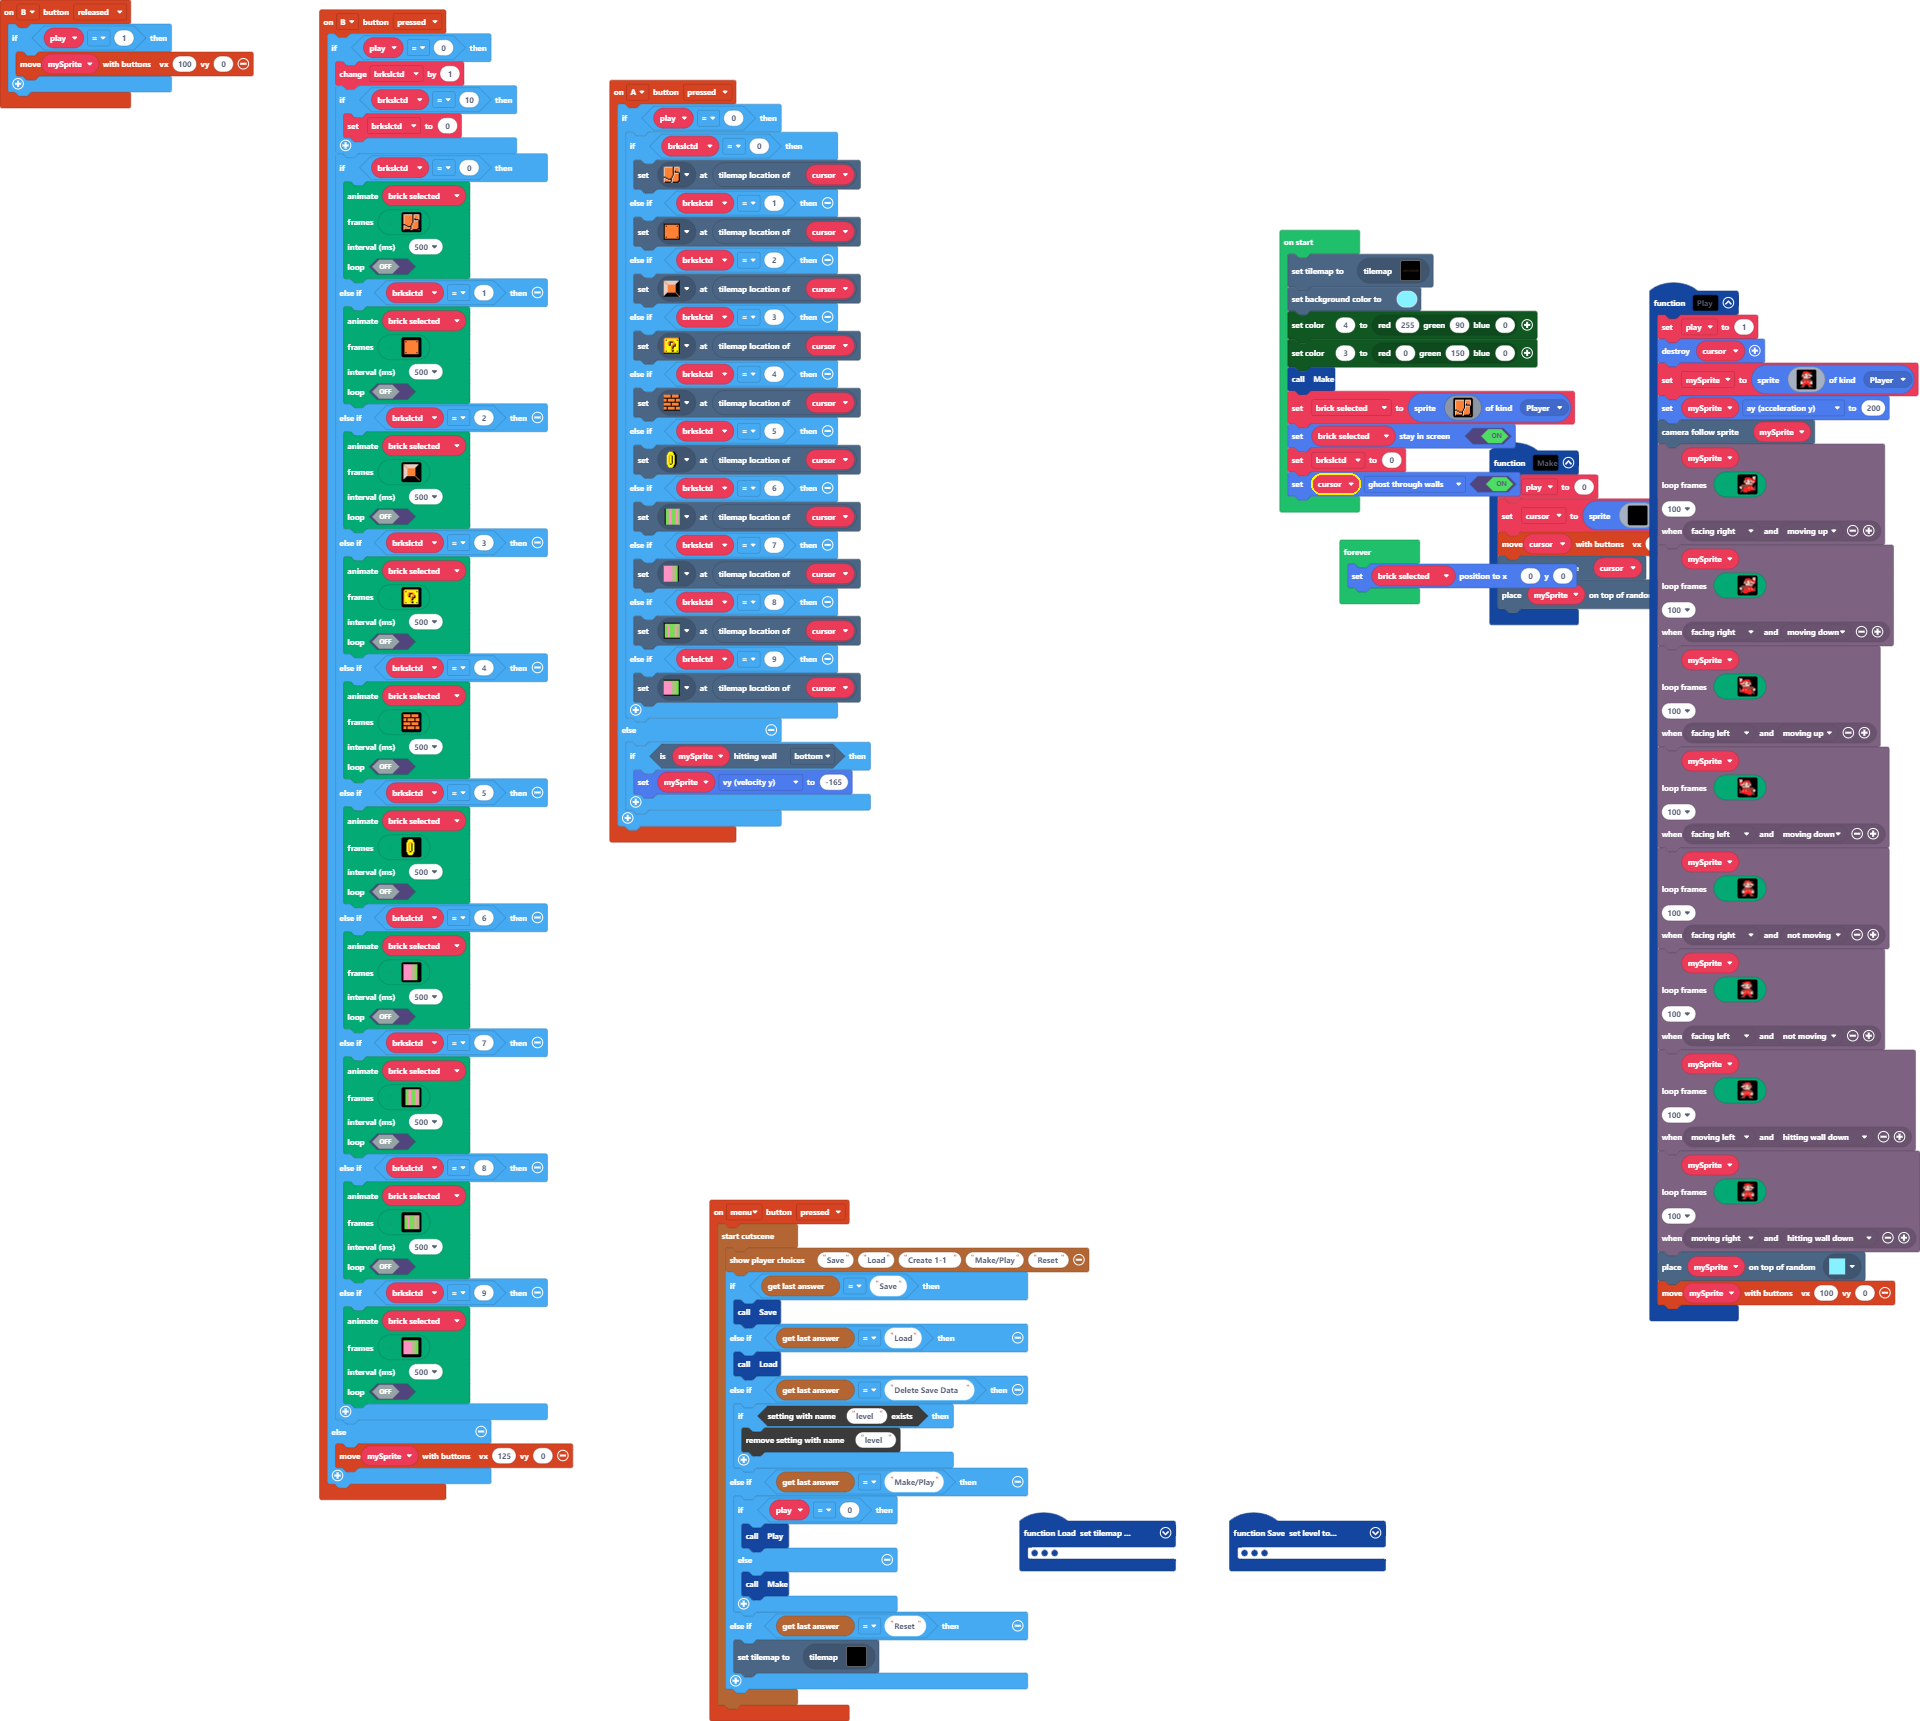
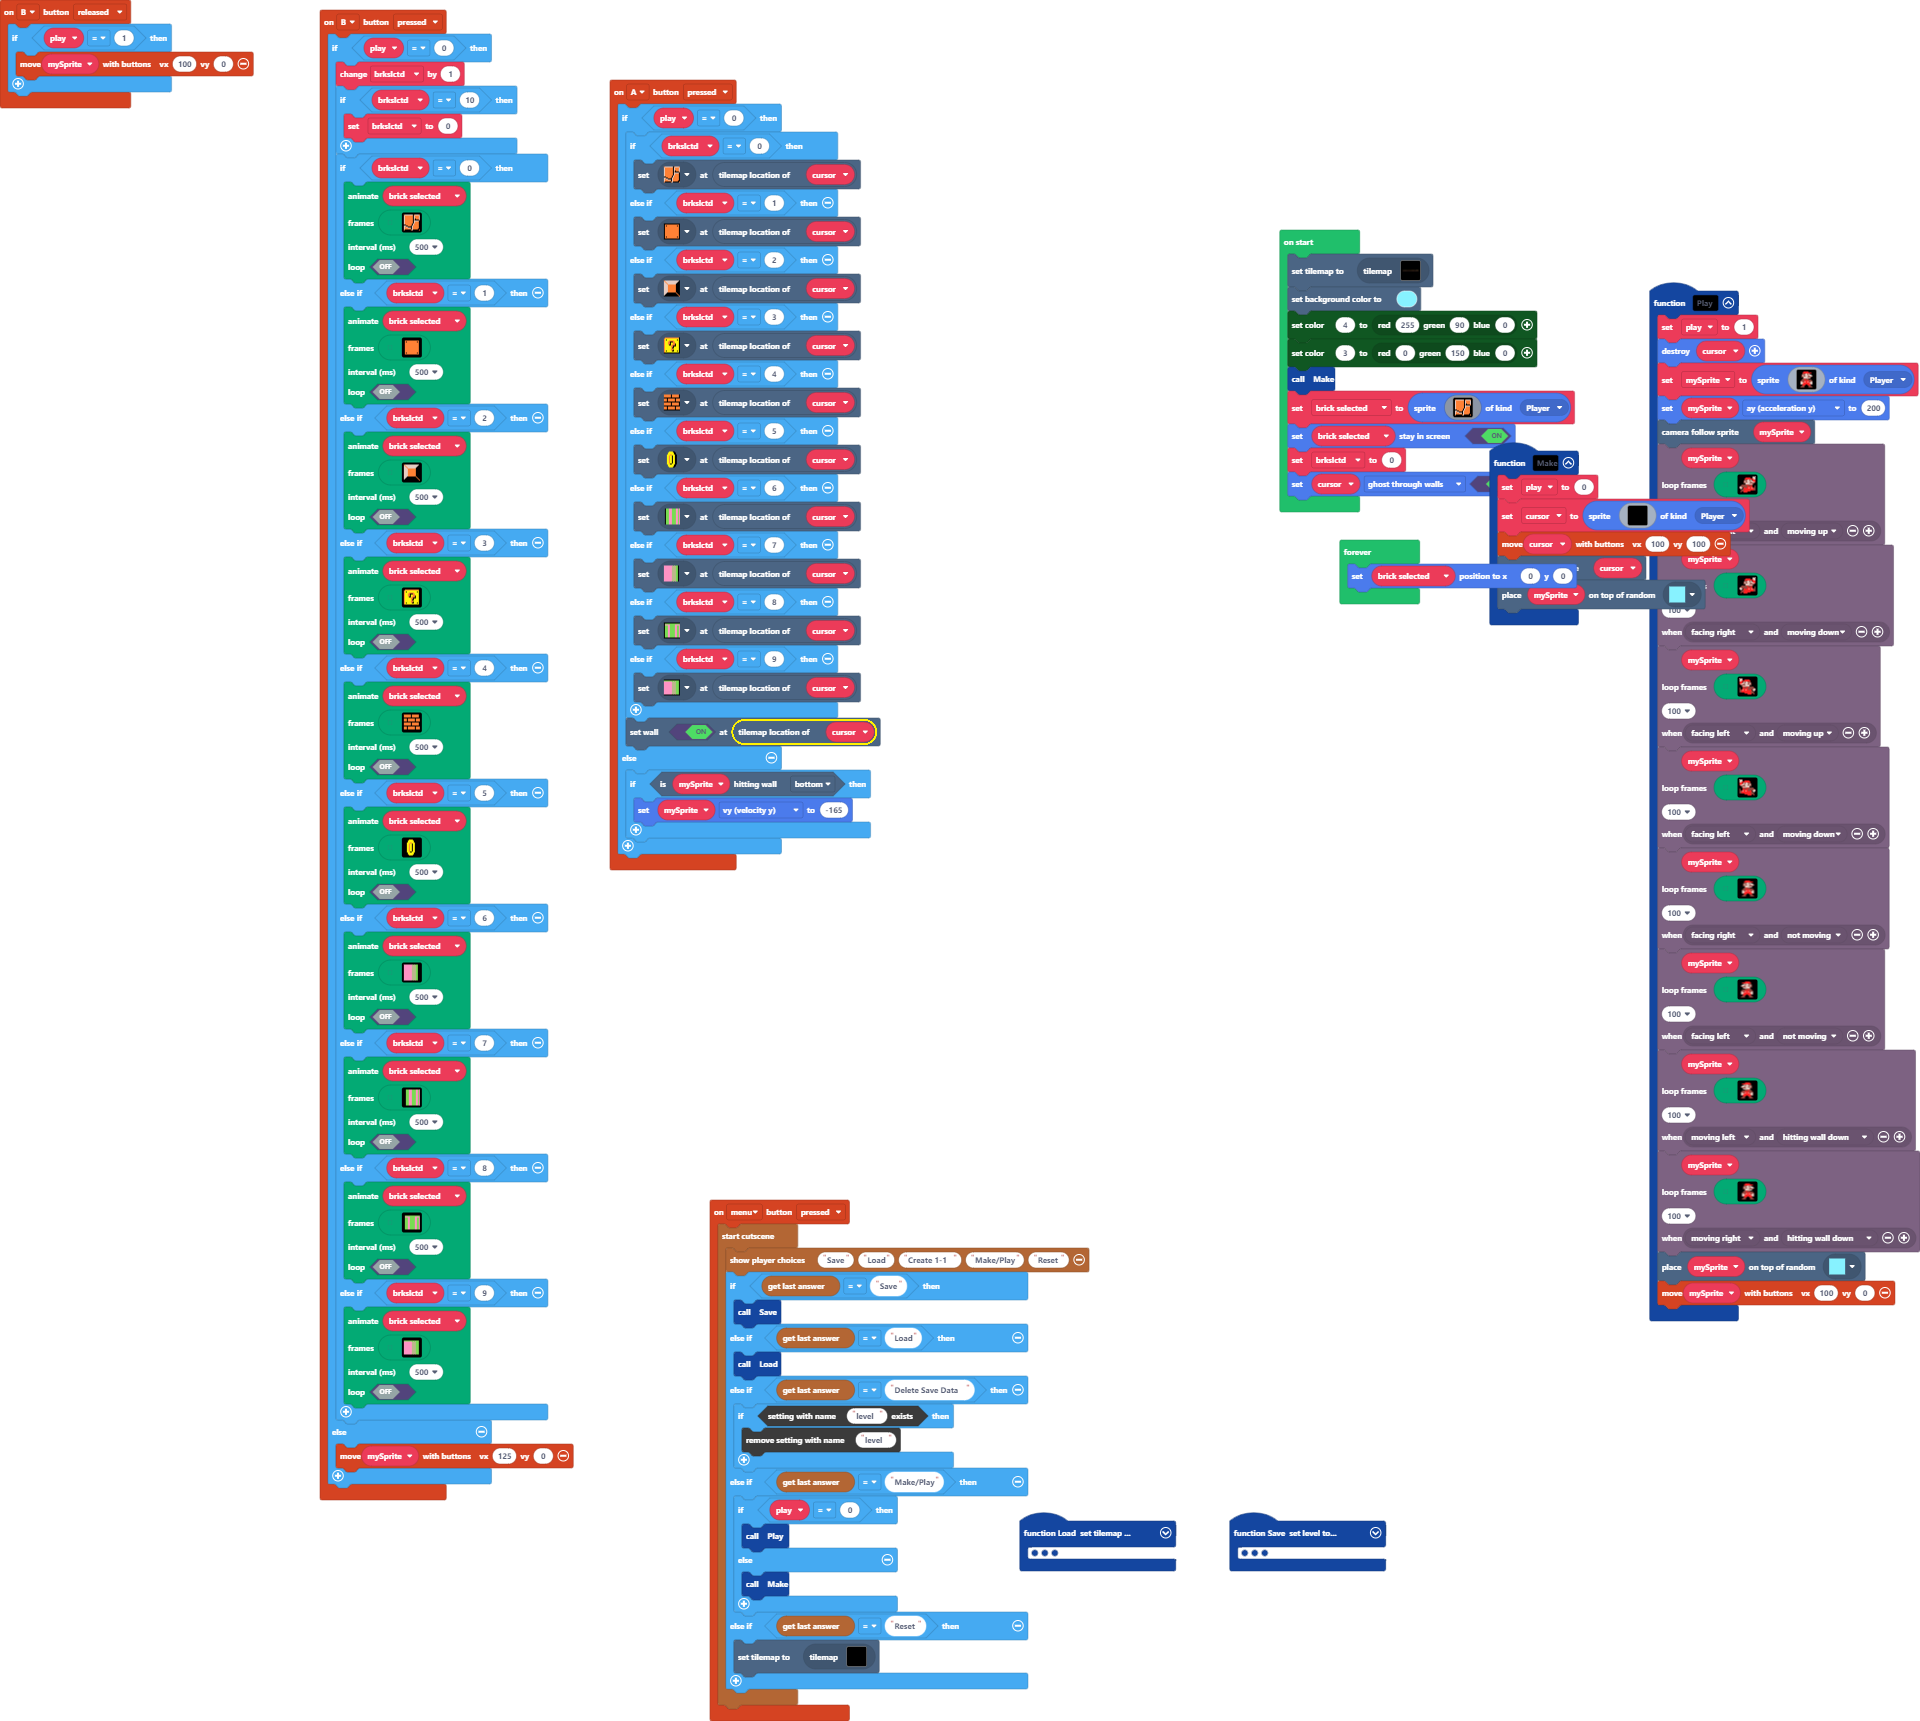
Update main.blocks, main.ts

diff --git a/main.ts b/main.ts
@@ -638,6 +638,7 @@ controller.A.onEvent(ControllerButtonEvent.Pressed, function () {
         } else if (brkslctd == 9) {
             tiles.setTileAt(cursor.tilemapLocation(), assets.tile`myTile8`)
         }
+        tiles.setWallAt(cursor.tilemapLocation(), true)
     } else {
         if (mySprite.isHittingTile(CollisionDirection.Bottom)) {
             mySprite.vy = -165
